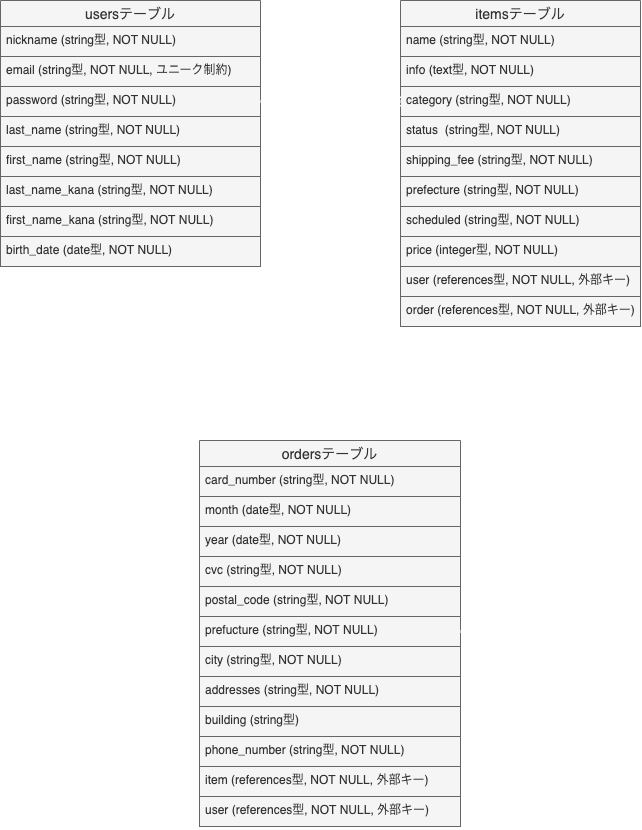
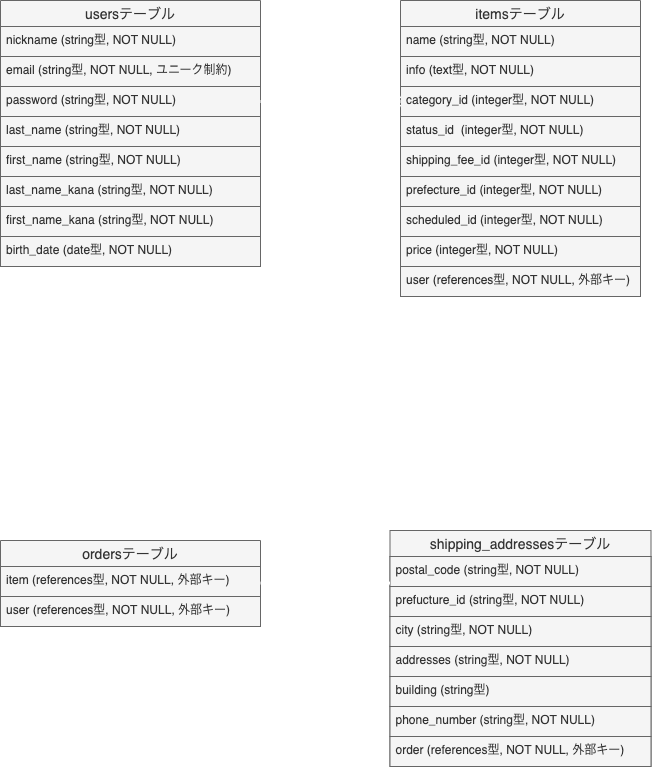
README、ER図の修正

diff --git a/README.md b/README.md
@@ -4,8 +4,8 @@
 
 | Column             | Type   | Options                   |
 | ------------------ | ------ | --------------------------|
-| nickname           | string | null: false, unique: true |
-| email              | string | null: false               |
+| nickname           | string | null: false               |
+| email              | string | null: false, unique: true |
 | encrypted_password | string | null: false               |
 | last_name          | string | null: false               |
 | first_name         | string | null: false               |
@@ -25,14 +25,13 @@
 | ------------------ | ---------- | ------------------------------ |
 | name               | string     | null: false                    |
 | info               | text       | null: false                    |
-| category           | string     | null: false                    |
-| status             | string     | null: false                    |
-| shipping_fee       | string     | null: false                    |
-| prefecture         | string     | null: false                    |
-| scheduled          | string     | null: false                    |
-| price              | integer    | null: false                    |
+| category_id        | integer    | null: false                    |
+| status_id          | integer    | null: false                    |
+| shipping_fee_id    | integer    | null: false                    |
+| prefecture_id      | integer    | null: false                    |
+| scheduled_id       | integer    | null: false                    |
+| price_id           | integer    | null: false                    |
 | user               | references | null: false, foreign_key: true |
-| order              | references | null: false, foreign_key: true |
 
 ### Association
 
@@ -43,20 +42,26 @@
 
 | Column             | Type       | Options                        |
 | ------------------ | ---------- | ------------------------------ |
-| card_number        | string     | null: false                    |
-| month              | date       | null: false                    |
-| year               | date       | null: false                    |
-| cvc                | string     | null: false                    |
-| postal_code        | string     | null: false                    |
-| prefecture         | string     | null: false                    |
-| city               | string     | null: false                    |
-| addresses          | string     | null: false                    |
-| building           | string     |                                |
-| phone_number       | string     | null: false                    |
 | item               | references | null: false, foreign_key: true |
 | user               | references | null: false, foreign_key: true |
 
 ### Association
 
 - belongs_to :user
-- has_one :item
+- belongs_to :item
+- has_one :shipping_address
+
+## shipping_addresses テーブル
+
+| Column             | Type       | Options                        |
+| ------------------ | ---------- | ------------------------------ |
+| postal_code        | string     | null: false                    |
+| prefecture_id      | integer    | null: false                    |
+| city               | string     | null: false                    |
+| addresses          | string     | null: false                    |
+| building           | string     |                                |
+| phone_number       | string     | null: false                    |
+
+### Association
+
+- belongs_to :order
